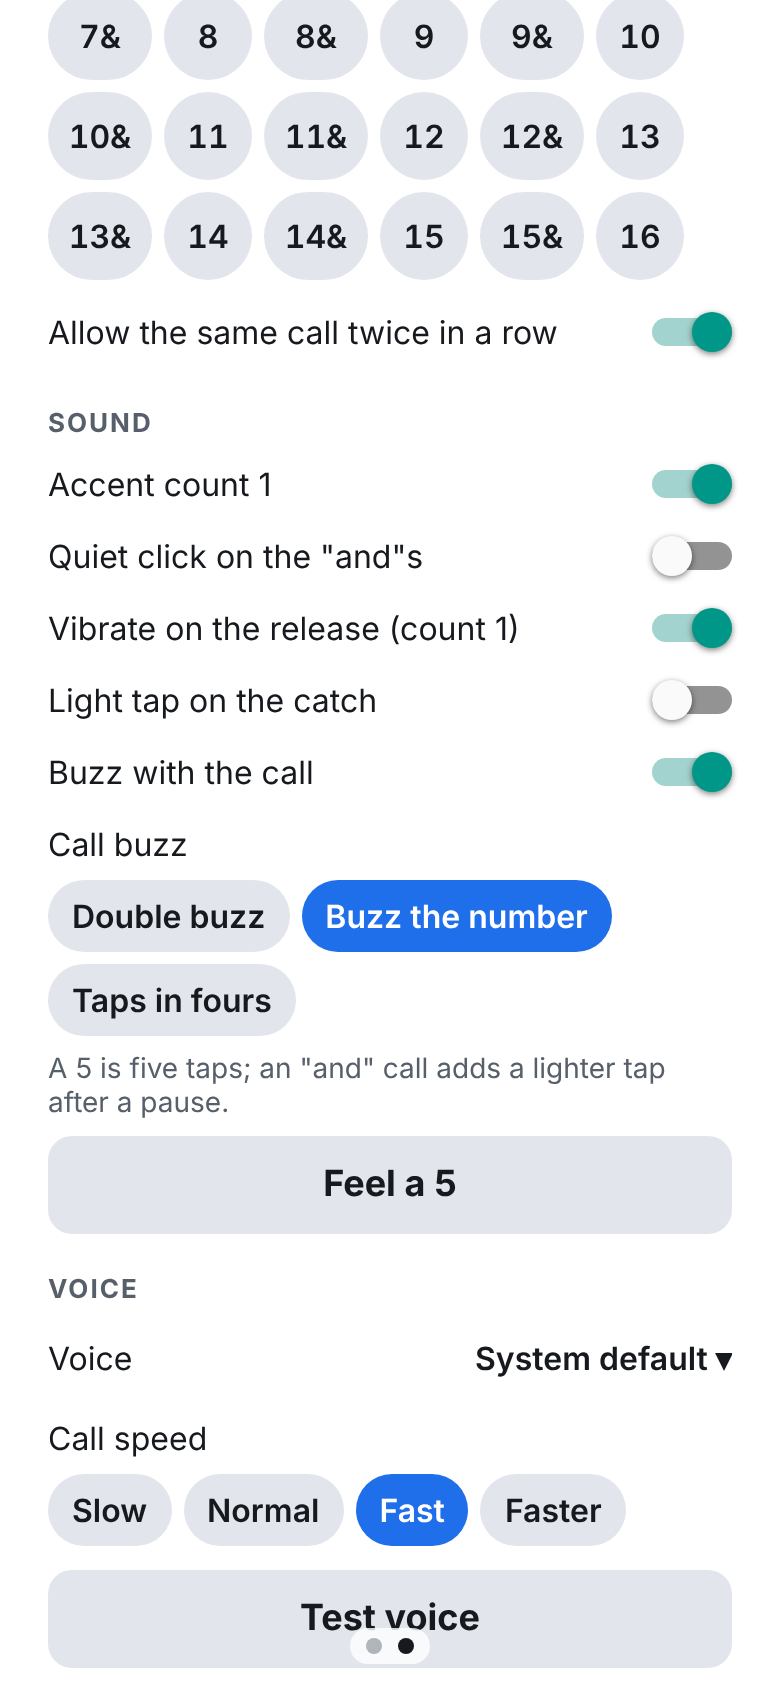
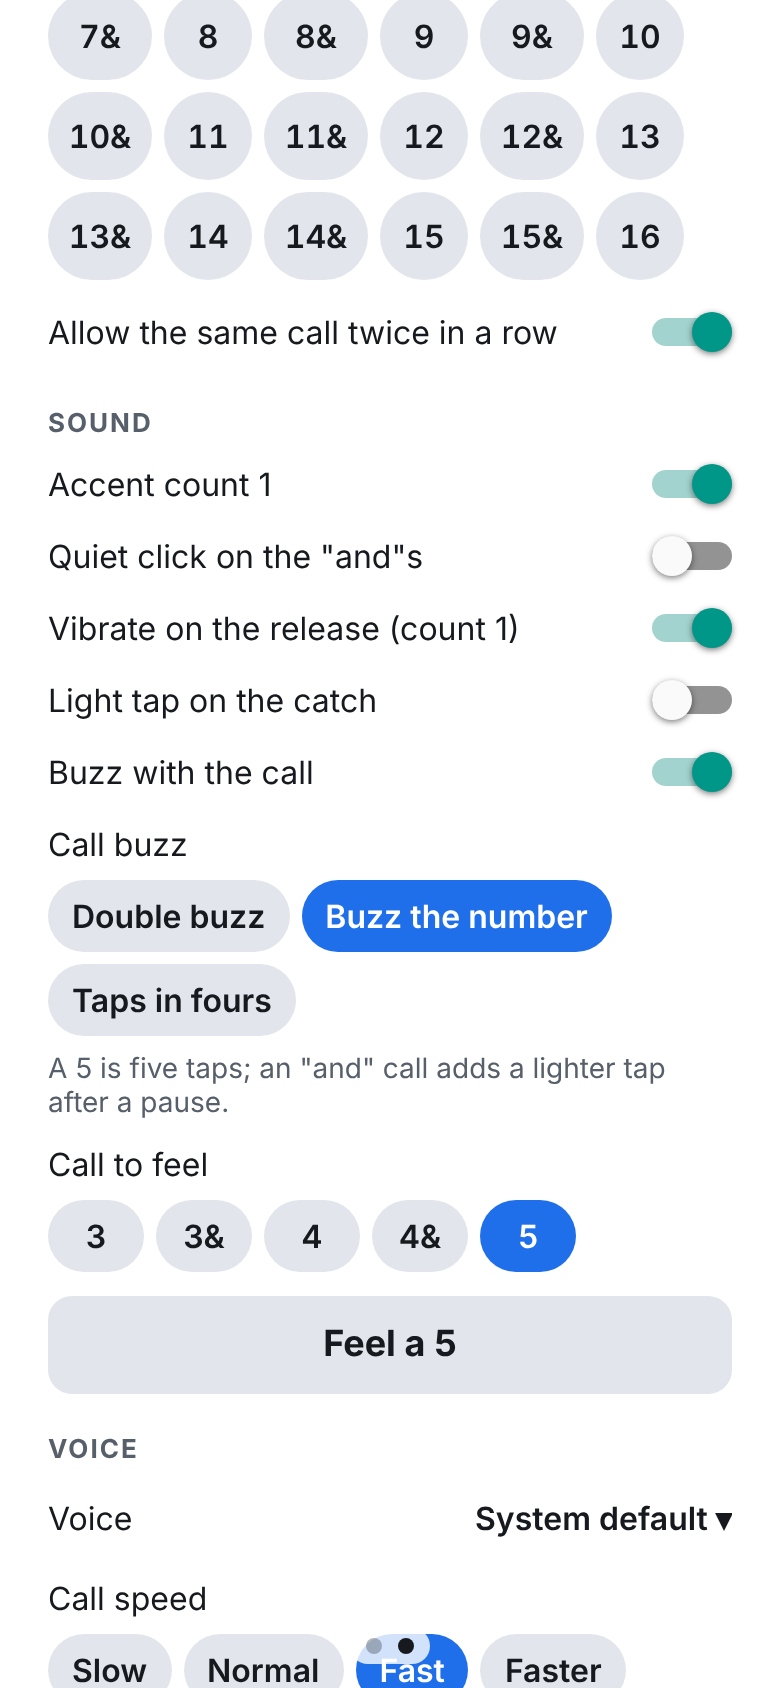
feat(ui): "Call to feel" chips pick which call the Feel button taps out
Under Settings → Sound → Call buzz (Buzz the number / Taps in fours),
tapping a call plays it at once and makes it the Feel button's call.
Smoke test checks the pick and that the double buzz has no chips; new
screenshot 27-feel-a-call.

Claude-Session: https://claude.ai/code/session_01UV53BD5WXz4PnHWJx36RVQ

Changed region(s): [[0.0615, 0.6469, 0.9538, 1.0]]

diff --git a/src/components/SettingsPanel.tsx b/src/components/SettingsPanel.tsx
@@ -22,6 +22,7 @@ import {
   announceCountInPhrase,
   callBuzzNote,
   callBuzzSample,
+  callBuzzSampleCalls,
   callBuzzSampleLabel,
   callBuzzStyleLabel,
   callSetNote,
@@ -29,6 +30,7 @@ import {
   countOffPatternLabel,
   countOffSummary,
   describeWarning,
+  displayLabelForCall,
   effectiveCountIn,
   liveSettingsNote,
   settingsWarnings,
@@ -162,7 +164,10 @@ export function SettingsPanel({
   const countOff = countOffSummary(countIn, settings, countOffPattern);
   const callBuzzStyle = cueOptions.callHapticStyle ?? DEFAULT_CALL_BUZZ_STYLE;
   const buzzNote = callBuzzNote(callBuzzStyle, settings, bpm);
-  const buzzSample = callBuzzSample(callBuzzStyle, settings, bpm);
+  // The call picked under "Feel a …" (not saved: it's only for trying the taps).
+  const [feelCall, setFeelCall] = useState<number | null>(null);
+  const buzzSampleCalls = callBuzzSampleCalls(callBuzzStyle, settings);
+  const buzzSample = callBuzzSample(callBuzzStyle, settings, bpm, feelCall);
   const buzzSampleLabel = callBuzzSampleLabel(buzzSample);
 
   return (
@@ -303,6 +308,21 @@ export function SettingsPanel({
             <Text style={styles.note} testID="call-buzz-note">
               {buzzNote}
             </Text>
+          ) : null}
+          {onFeelBuzz && buzzSampleCalls.length > 1 && buzzSample.call !== null ? (
+            <Segmented<number>
+              label="Call to feel"
+              options={buzzSampleCalls}
+              value={buzzSample.call}
+              onChange={(call) => {
+                setFeelCall(call);
+                onFeelBuzz(callBuzzSample(callBuzzStyle, settings, bpm, call));
+              }}
+              disabled={previewLocked}
+              optionLabel={displayLabelForCall}
+              optionAccessibilityLabel={(call) => callBuzzSampleLabel({ call, pulses: [] })}
+              testID="feel-call-picker"
+            />
           ) : null}
           {onFeelBuzz ? (
             <Pressable

diff --git a/e2e/smoke.js b/e2e/smoke.js
@@ -395,7 +395,18 @@ async function main() {
       feelLabel,
     );
     await feel.click();
+    await page.getByRole('radio', { name: 'Feel a 3', exact: true }).click();
+    const pickedLabel = (await page.getByTestId('feel-call-buzz').textContent()) ?? '';
+    check(
+      'tapping a call under "Call to feel" picks it for the button',
+      pickedLabel === 'Feel a 3',
+      pickedLabel,
+    );
     await page.getByRole('radio', { name: /^Double buzz/ }).click();
+    check(
+      'the double buzz has no "Call to feel" chips (it feels the same for every call)',
+      (await page.getByTestId('feel-call-picker').count()) === 0,
+    );
     check(
       'the double buzz can be felt too',
       ((await page.getByTestId('feel-call-buzz').textContent()) ?? '') === 'Feel the buzz',

diff --git a/scripts/screenshots.js b/scripts/screenshots.js
@@ -231,6 +231,10 @@ async function main() {
     await page.getByRole('radio', { name: /^Taps in fours/ }).click();
     await page.waitForTimeout(200);
     await shot(page, '26-taps-in-fours');
+    await page.getByRole('radio', { name: 'Feel a 4 and', exact: true }).click();
+    await scrollTo(page.getByTestId('feel-call-picker'));
+    await page.waitForTimeout(200);
+    await shot(page, '27-feel-a-call');
     await page.getByRole('radio', { name: /^Double buzz/ }).click();
     await page.getByRole('switch', { name: 'Buzz with the call' }).click();
 
